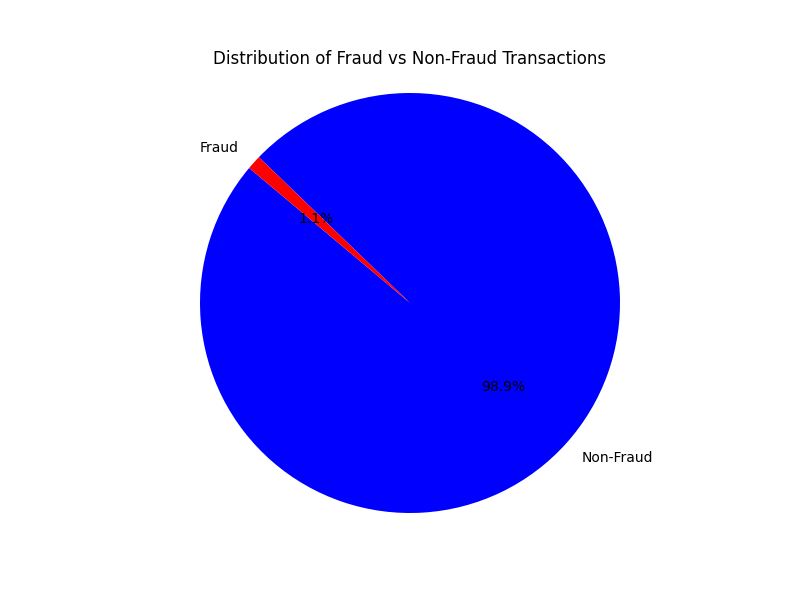
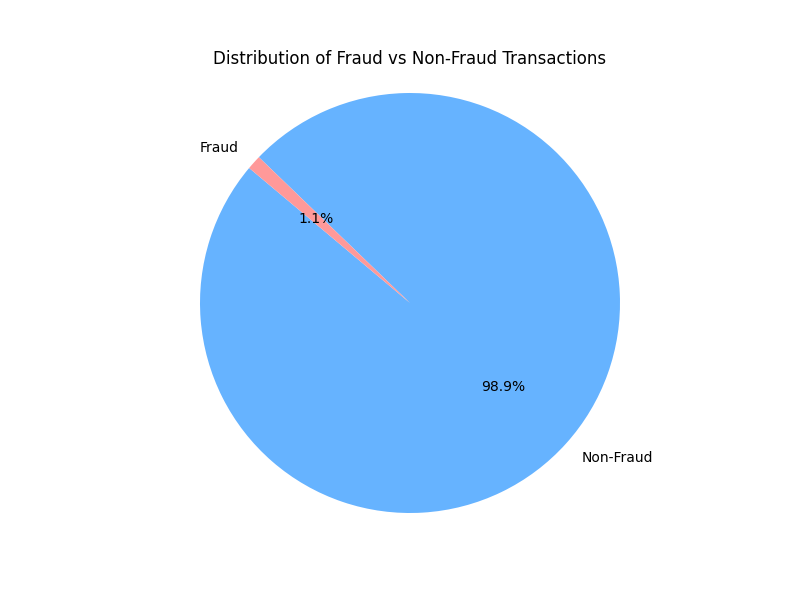
Edited the color for the visualizations

Changed region(s): [[0.25, 0.15, 0.7812, 0.87]]

diff --git a/src/visualizations/create_visualizations.py b/src/visualizations/create_visualizations.py
@@ -23,7 +23,7 @@ def fraud_distribution(df, save_path):
     # Plotting the pie chart
     labels = ['Non-Fraud', 'Fraud']
     sizes = [count_of_0, count_of_1]
-    colors = ['blue', 'red']
+    colors = ['#66b3ff', '#ff9999']
 
     plt.figure(figsize=(8, 6))
     plt.pie(sizes, labels=labels, colors=colors, autopct='%1.1f%%', startangle=140)
